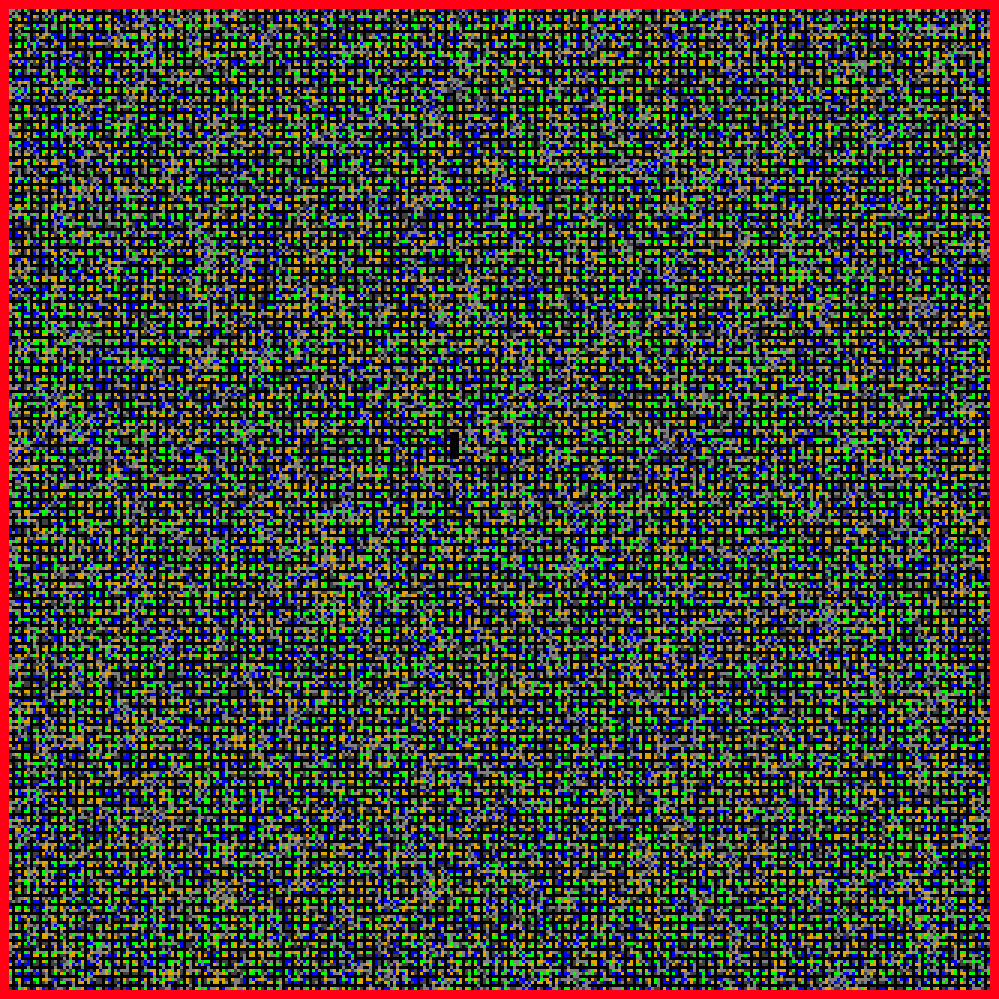
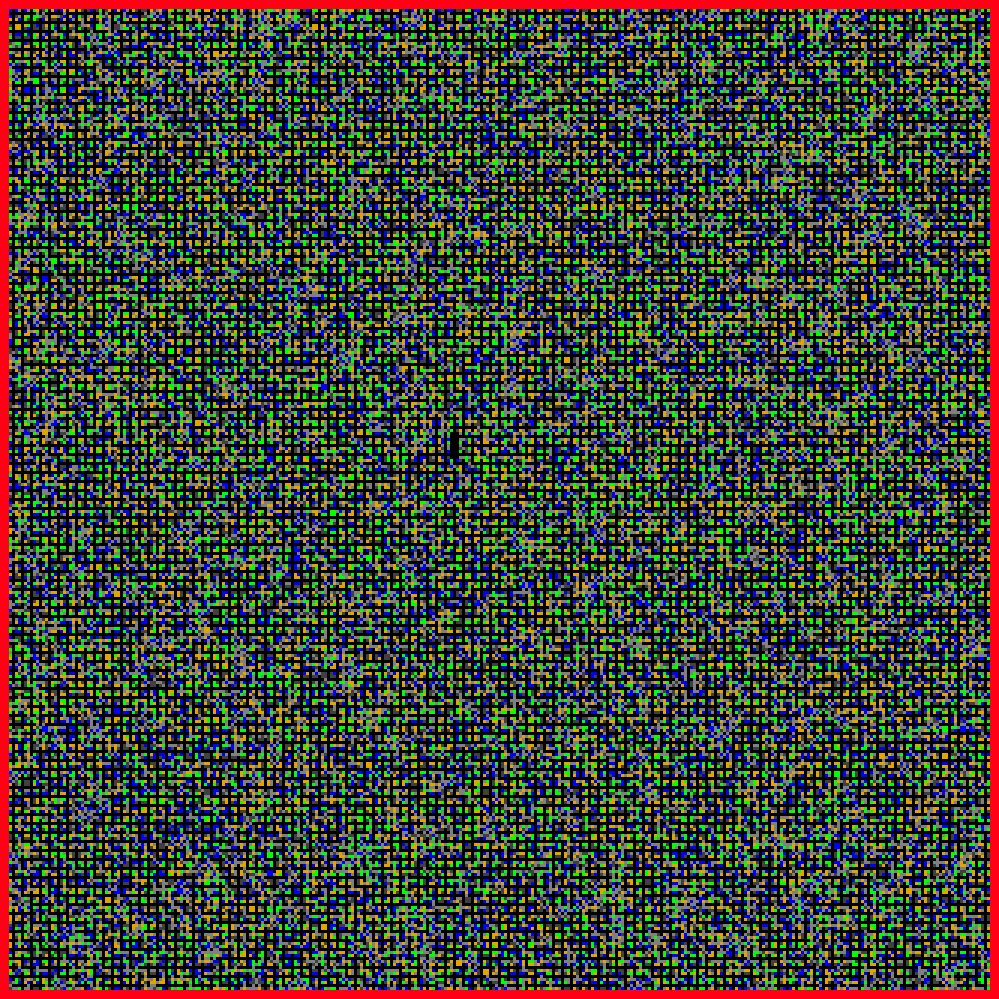
fix sprites in alle kwadranten. Soms wel nog een afsprong

diff --git a/IB2.py b/IB2.py
@@ -302,7 +302,7 @@ def render_sprites(renderer, sprites, player):
         # hoek
         rx = sprite.x - player.p_x
         ry = sprite.y - player.p_y
-        hoek_sprite = math.atan2(ry , rx)
+        hoek_sprite = math.atan2(ry , rx)%(math.pi*2)
         if sprite.afstand >= 60: continue;
 
         '''
@@ -312,7 +312,7 @@ def render_sprites(renderer, sprites, player):
         elif player.p_x < sprite.x and player.p_y < sprite.y:continue # hoek_sprite +=  np.pi;
         '''
 
-        hoek_verschil = abs(player.hoek - hoek_sprite)%(math.pi*2)
+        hoek_verschil = abs(player.hoek - hoek_sprite)
         if hoek_verschil >= (math.pi / 3.7):
             continue  # net iets minder gepakt als 4 zodat hij langs rechts er niet afspringt
 
